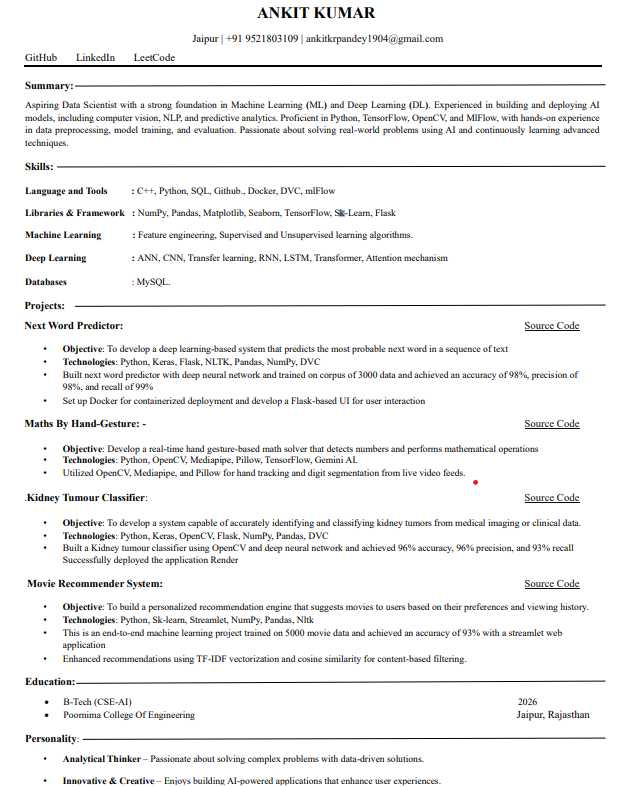
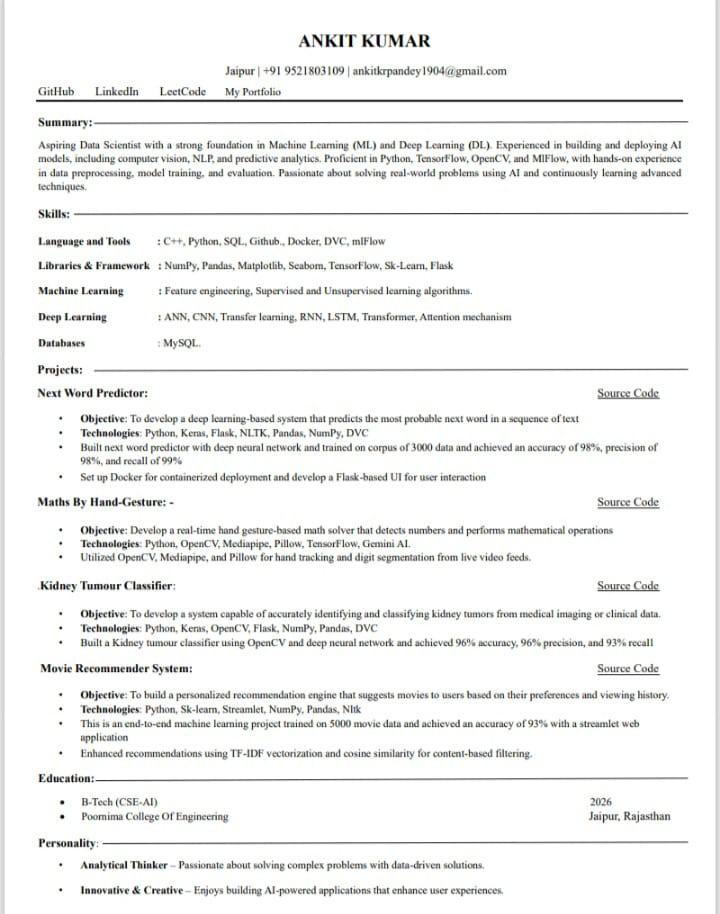
commited

Changed region(s): [[0.0, 0.0, 1.0, 1.0]]

diff --git a/resume.html b/resume.html
@@ -48,9 +48,8 @@
             <br>
             <img src="./public/RESUME.png" alt="" srcset="">
 
-
           <a class="btn"
-                    href="https://drive.google.com/uc?export=download&id=1LXyqxxwOOlLsCYZQ8NzFOeE_U-vyNpM2" download>
+                    href="https://drive.google.com/uc?export=download&id=1T06OdpU5B3VMQOGIifJQuNj6l_S216Be" download>
                     Download Resume
                 </a>
         </div>
